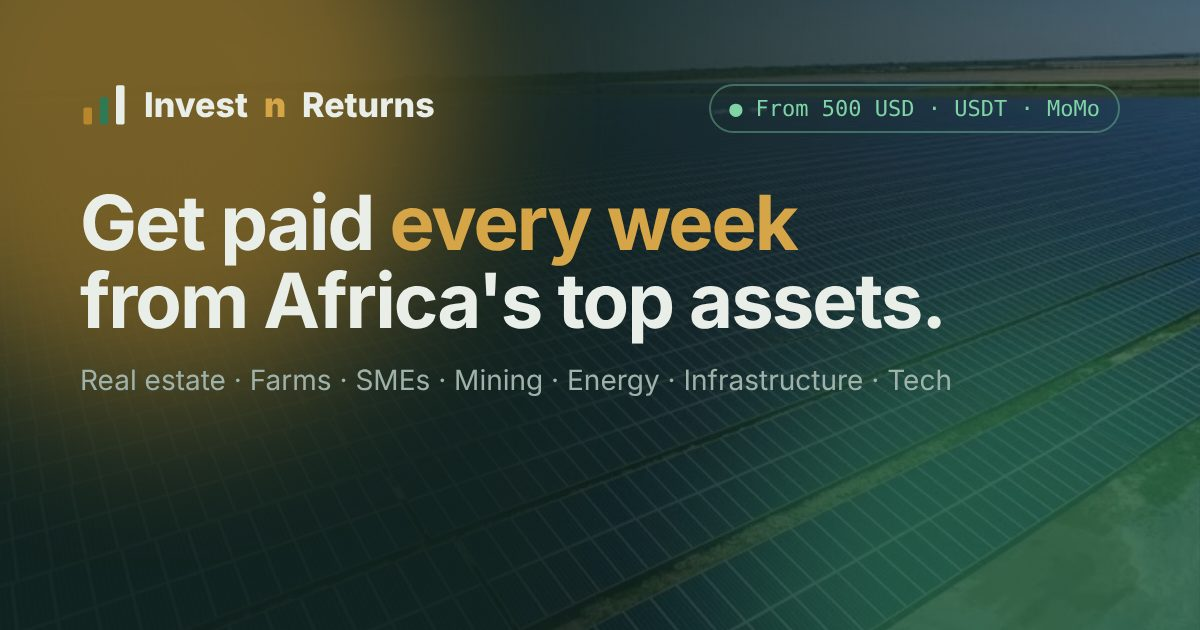
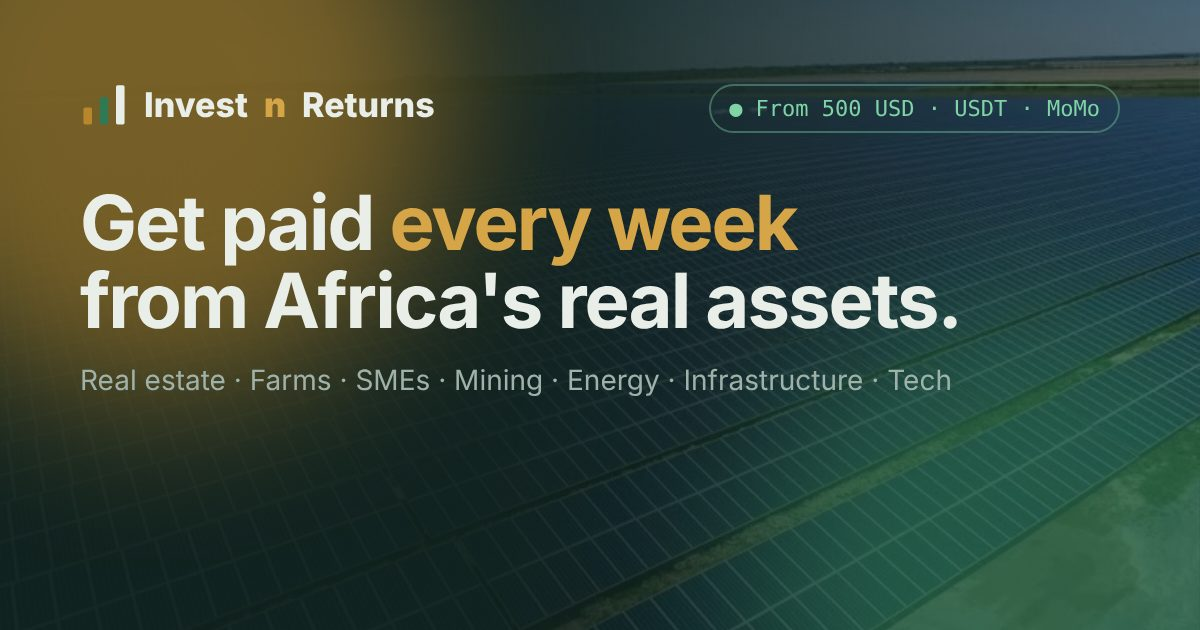
Google Tag Manager GTM-5H3TS84D, 'Africa's real assets' headline, WhatsApp bottom-right
- GTM container preset in Settings; loader first in <head>, noscript iframe after
  <body>, gtag()/gtag('js') defined as in Google's snippet, CSP allows GTM/GA4
- Headline, eyebrow, title, manifest and OG image now say "Africa's real assets"
- WhatsApp button pinned bottom-right (safe-area aware), hidden while the
  mobile menu is open

Claude-Session: https://claude.ai/code/session_01SUv9Hn3rT1XUiwYeQDKdFj

Changed region(s): [[0.4625, 0.4222, 0.8017, 0.5429]]

diff --git a/src/views/public/home.js b/src/views/public/home.js
@@ -9,7 +9,7 @@ const categories = require('../../data/categories');
 
 module.exports = function home(ctx, { featured, simAssets, stats, saved }) {
   const t = ctx.t;
-  const title = t("Invest in Africa's top assets, get paid weekly", "Investir dans les meilleurs actifs d'Afrique, payé chaque semaine");
+  const title = t("Invest in Africa's real assets, get paid weekly", "Investir dans les actifs réels d'Afrique, payé chaque semaine");
   const description = t(
     'Invest from 500 USD in vetted African real estate, farms, SME loans, mining royalties, solar energy, infrastructure and tech start-ups. Pay in USDT, BTC or Mobile Money. Weekly income, full reporting.',
     "Investissez dès 500 USD dans l'immobilier, l'agriculture, les PME, les mines, l'énergie solaire, les infrastructures et la tech en Afrique. Payez en USDT, BTC ou Mobile Money. Revenus hebdomadaires, reporting complet."
@@ -24,8 +24,8 @@ module.exports = function home(ctx, { featured, simAssets, stats, saved }) {
   <div class="wrap">
     <div class="hero-grid">
       <div class="hero-copy">
-        <p class="eyebrow reveal">${t("Africa's top assets · one platform", "Les meilleurs actifs d'Afrique · une plateforme")}</p>
-        <h1 class="reveal">${t('Get paid ', 'Soyez payé ')}<em class="shine">${t('every week', 'chaque semaine')}</em>${t(" from Africa's top assets.", " par les meilleurs actifs d'Afrique.")}</h1>
+        <p class="eyebrow reveal">${t("Africa's real assets · one platform", "Les actifs réels d'Afrique · une plateforme")}</p>
+        <h1 class="reveal">${t('Get paid ', 'Soyez payé ')}<em class="shine">${t('every week', 'chaque semaine')}</em>${t(" from Africa's real assets.", " par les actifs réels d'Afrique.")}</h1>
         <p class="lead reveal">${t('Property, farms, mining, energy, infrastructure, working companies and tech across Africa, plus hard-currency assets abroad. Invest in crypto or cash from 500 USD. Get paid every week, month, 3 months, 6 months or year — you choose — and watch your income grow in real time.', "Immobilier, agriculture, mines, énergie, infrastructures, entreprises et tech à travers l'Afrique, plus des actifs en devises fortes. Investissez en crypto ou en cash dès 500 USD. Soyez payé chaque semaine, mois, trimestre, semestre ou année — au choix — et suivez vos revenus en temps réel.")}</p>
         <div class="ctas reveal">
           <a class="btn btn-gold btn-lg magnetic" href="${ctx.user ? ctx.u('/assets') : ctx.u('/register')}">${ctx.user ? t('Reserve an asset', 'Réserver un actif') : t('Open my free account', 'Ouvrir mon compte gratuit')} ${icon('arrow', 18)}</a>

diff --git a/src/views/layout.js b/src/views/layout.js
@@ -5,14 +5,20 @@ const { icon, logoMark, flash, csrfField } = require('./components');
 const categories = require('../data/categories');
 const { countries } = require('../data/catalog');
 
-const ASSET_V = "4";
+const ASSET_V = "5";
 
 // Search-engine verification + analytics (public pages only). IDs are validated when saved.
 function trackingTags(ctx) {
   const st = require('../services/settings');
   const g = st.get('google_verification'); const b = st.get('bing_verification');
   const ga4 = st.get('ga4_id'); const gtm = st.get('gtm_id'); const px = st.get('meta_pixel_id');
-  return html`${g ? html`<meta name="google-site-verification" content="${g}">` : ''}${b ? html`<meta name="msvalidate.01" content="${b}">` : ''}${ga4 || gtm || px ? html`<script src="/js/analytics.js?v=${ASSET_V}" data-ga4="${ga4}" data-gtm="${gtm}" data-pixel="${px}" async></script>` : ''}`;
+  return html`${g ? html`<meta name="google-site-verification" content="${g}">` : ''}${b ? html`<meta name="msvalidate.01" content="${b}">` : ''}${ga4 || gtm || px ? html`<script src="/js/analytics.js?v=${ASSET_V}" data-ga4="${ga4}" data-gtm="${gtm}" data-pixel="${px}"></script>` : ''}`;
+}
+
+// Google Tag Manager fallback for visitors without JavaScript (placed right after <body>).
+function gtmNoscript() {
+  const gtm = require('../services/settings').get('gtm_id');
+  return gtm ? html`<noscript><iframe src="https://www.googletagmanager.com/ns.html?id=${gtm}" height="0" width="0" style="display:none;visibility:hidden" title="Google Tag Manager"></iframe></noscript>` : '';
 }
 
 function docHead(ctx, headMarkup, extraCss = [], tracking = false) {
@@ -20,6 +26,7 @@ function docHead(ctx, headMarkup, extraCss = [], tracking = false) {
 <html lang="${ctx.lang}" data-theme-init>
 <head>
 <meta charset="utf-8">
+${tracking ? trackingTags(ctx) : ''}
 <meta name="viewport" content="width=device-width, initial-scale=1, viewport-fit=cover">
 <meta name="theme-color" content="#10221d">
 <meta name="color-scheme" content="light dark">
@@ -34,7 +41,6 @@ function docHead(ctx, headMarkup, extraCss = [], tracking = false) {
 ${extraCss.map((c) => html`<link rel="stylesheet" href="${c}?v=${ASSET_V}">`)}
 <link rel="alternate" type="text/plain" title="LLM summary" href="/llms.txt">
 <script src="/js/theme.js?v=${ASSET_V}"></script>
-${tracking ? trackingTags(ctx) : ''}
 ${headMarkup}
 </head>`;
 }
@@ -227,6 +233,7 @@ function whatsappFloat(ctx) {
 function page(ctx, { seo: s, body, bodyClass = '' }) {
   return html`${docHead(ctx, seo.head(ctx, s), [], true)}
 <body class="${bodyClass}">
+${gtmNoscript()}
 ${header(ctx)}
 <main id="main">
 ${flash(ctx)}

diff --git a/src/app.js b/src/app.js
@@ -22,11 +22,12 @@ app.use(helmet({
     directives: {
       'default-src': ["'self'"],
       // Analytics providers are allowed only so the IDs set in Admin → Settings can load.
-      'script-src': ["'self'", 'https://www.googletagmanager.com', 'https://connect.facebook.net'],
+      'script-src': ["'self'", 'https://www.googletagmanager.com', 'https://*.googletagmanager.com', 'https://www.google-analytics.com', 'https://connect.facebook.net', 'https://tagassistant.google.com'],
       'style-src': ["'self'", 'https://fonts.googleapis.com', "'unsafe-inline'"],
       'font-src': ["'self'", 'https://fonts.gstatic.com'],
-      'img-src': ["'self'", 'data:', 'https://www.googletagmanager.com', 'https://*.google-analytics.com', 'https://www.facebook.com'],
-      'connect-src': ["'self'", 'https://*.google-analytics.com', 'https://*.analytics.google.com', 'https://www.googletagmanager.com', 'https://www.facebook.com'],
+      'img-src': ["'self'", 'data:', 'https://*.googletagmanager.com', 'https://*.google-analytics.com', 'https://www.google.com', 'https://*.g.doubleclick.net', 'https://www.facebook.com'],
+      'connect-src': ["'self'", 'https://*.google-analytics.com', 'https://*.analytics.google.com', 'https://*.googletagmanager.com', 'https://www.google.com', 'https://*.g.doubleclick.net', 'https://www.facebook.com'],
+      'frame-src': ["'self'", 'https://www.googletagmanager.com', 'https://tagassistant.google.com'],
       'form-action': ["'self'", 'mailto:'],
       'frame-ancestors': ["'none'"],
       'upgrade-insecure-requests': config.cookieSecure ? [] : null,

diff --git a/src/services/settings.js b/src/services/settings.js
@@ -93,7 +93,7 @@ const SCHEMA = [
   ] },
   { id: 'seo', title: 'Analytics & search engines', help: 'Paste only the IDs. Scripts load on public pages only, never in the dashboard or admin.', fields: [
     { key: 'ga4_id', label: 'Google Analytics 4 ID', type: 'text', def: '', pattern: /^G-[A-Z0-9]{4,12}$/, help: 'Format G-XXXXXXX' },
-    { key: 'gtm_id', label: 'Google Tag Manager ID', type: 'text', def: '', pattern: /^GTM-[A-Z0-9]{4,10}$/, help: 'Format GTM-XXXXXX' },
+    { key: 'gtm_id', label: 'Google Tag Manager ID', type: 'text', def: 'GTM-5H3TS84D', pattern: /^GTM-[A-Z0-9]{4,10}$/, help: 'Format GTM-XXXXXX. Loaded first in <head> on every public page.' },
     { key: 'meta_pixel_id', label: 'Meta (Facebook) Pixel ID', type: 'text', def: '', pattern: /^\d{8,20}$/ },
     { key: 'google_verification', label: 'Google Search Console verification code', type: 'text', def: '', pattern: /^[A-Za-z0-9_-]{10,100}$/, help: 'Only the content="…" value of the meta tag' },
     { key: 'bing_verification', label: 'Bing Webmaster verification code', type: 'text', def: '', pattern: /^[A-Za-z0-9]{10,64}$/ },

diff --git a/public/js/analytics.js b/public/js/analytics.js
@@ -5,12 +5,11 @@
   if (!d) return;
   if (d.ga4) {
     var g = document.createElement('script'); g.async = true; g.src = 'https://www.googletagmanager.com/gtag/js?id=' + encodeURIComponent(d.ga4); document.head.appendChild(g);
-    window.dataLayer = window.dataLayer || [];
-    window.gtag = function () { window.dataLayer.push(arguments); };
-    window.gtag('js', new Date()); window.gtag('config', d.ga4, { anonymize_ip: true });
+    window.gtag('config', d.ga4, { anonymize_ip: true });
   }
+  window.dataLayer = window.dataLayer || [];
+  if (!window.gtag) { window.gtag = function () { window.dataLayer.push(arguments); }; window.gtag('js', new Date()); }
   if (d.gtm) {
-    window.dataLayer = window.dataLayer || [];
     window.dataLayer.push({ 'gtm.start': Date.now(), event: 'gtm.js' });
     var t = document.createElement('script'); t.async = true; t.src = 'https://www.googletagmanager.com/gtm.js?id=' + encodeURIComponent(d.gtm); document.head.appendChild(t);
   }

diff --git a/src/routes/seo.js b/src/routes/seo.js
@@ -130,7 +130,7 @@ router.get('/llms-full.txt', (req, res) => res.type('text/plain; charset=utf-8')
 router.get('/manifest.webmanifest', (req, res) => {
   res.type('application/manifest+json').send(JSON.stringify({
     name: 'Invest n Returns', short_name: 'InvestNR', start_url: '/dashboard', display: 'standalone',
-    background_color: '#10221d', theme_color: '#10221d', description: "Invest in Africa's top assets and get paid weekly.",
+    background_color: '#10221d', theme_color: '#10221d', description: "Invest in Africa's real assets and get paid weekly.",
     icons: [{ src: '/img/logo-512.png', sizes: '512x512', type: 'image/png', purpose: 'any maskable' }, { src: '/img/favicon.svg', sizes: 'any', type: 'image/svg+xml' }],
   }));
 });

diff --git a/test/app.test.js b/test/app.test.js
@@ -389,6 +389,9 @@ test('52 projects, 16-section project page, country and office pages', async () 
   assert.match(off.text, /Kigali City Tower/);
   assert.match(off.text, /"FinancialService"/);
   const home = await c.req('/');
+  assert.match(home.text, /<head>\s*<meta charset="utf-8">\s*<script src="\/js\/analytics\.js[^"]*" data-ga4="" data-gtm="GTM-5H3TS84D"/, 'GTM loads first in <head>');
+  assert.match(home.text, /googletagmanager\.com\/ns\.html\?id=GTM-5H3TS84D/, 'GTM noscript after <body>');
+  assert.match(home.text, /Africa&#39;s real assets/);
   assert.match(home.text, /1389 Bd de la Liberté/);
   assert.match(home.text, /120 Wall Street/);
   assert.match(home.text, /class="has-sub/);

diff --git a/public/css/main.css b/public/css/main.css
@@ -640,3 +640,7 @@ textarea{min-height:96px;resize:vertical}
 .asset-main,.asset-side,.two-col>*,.panel-grid>*{min-width:0}
 @media (max-width:960px){.asset-grid{grid-template-columns:minmax(0,1fr)}}
 .table-scroll{max-width:100%}
+
+/* WhatsApp button: always bottom-right */
+.wa-float{position:fixed;left:auto;top:auto;right:max(18px,env(safe-area-inset-right));bottom:max(18px,env(safe-area-inset-bottom));z-index:90}
+body:has(.drawer.open) .wa-float{opacity:0;pointer-events:none}
